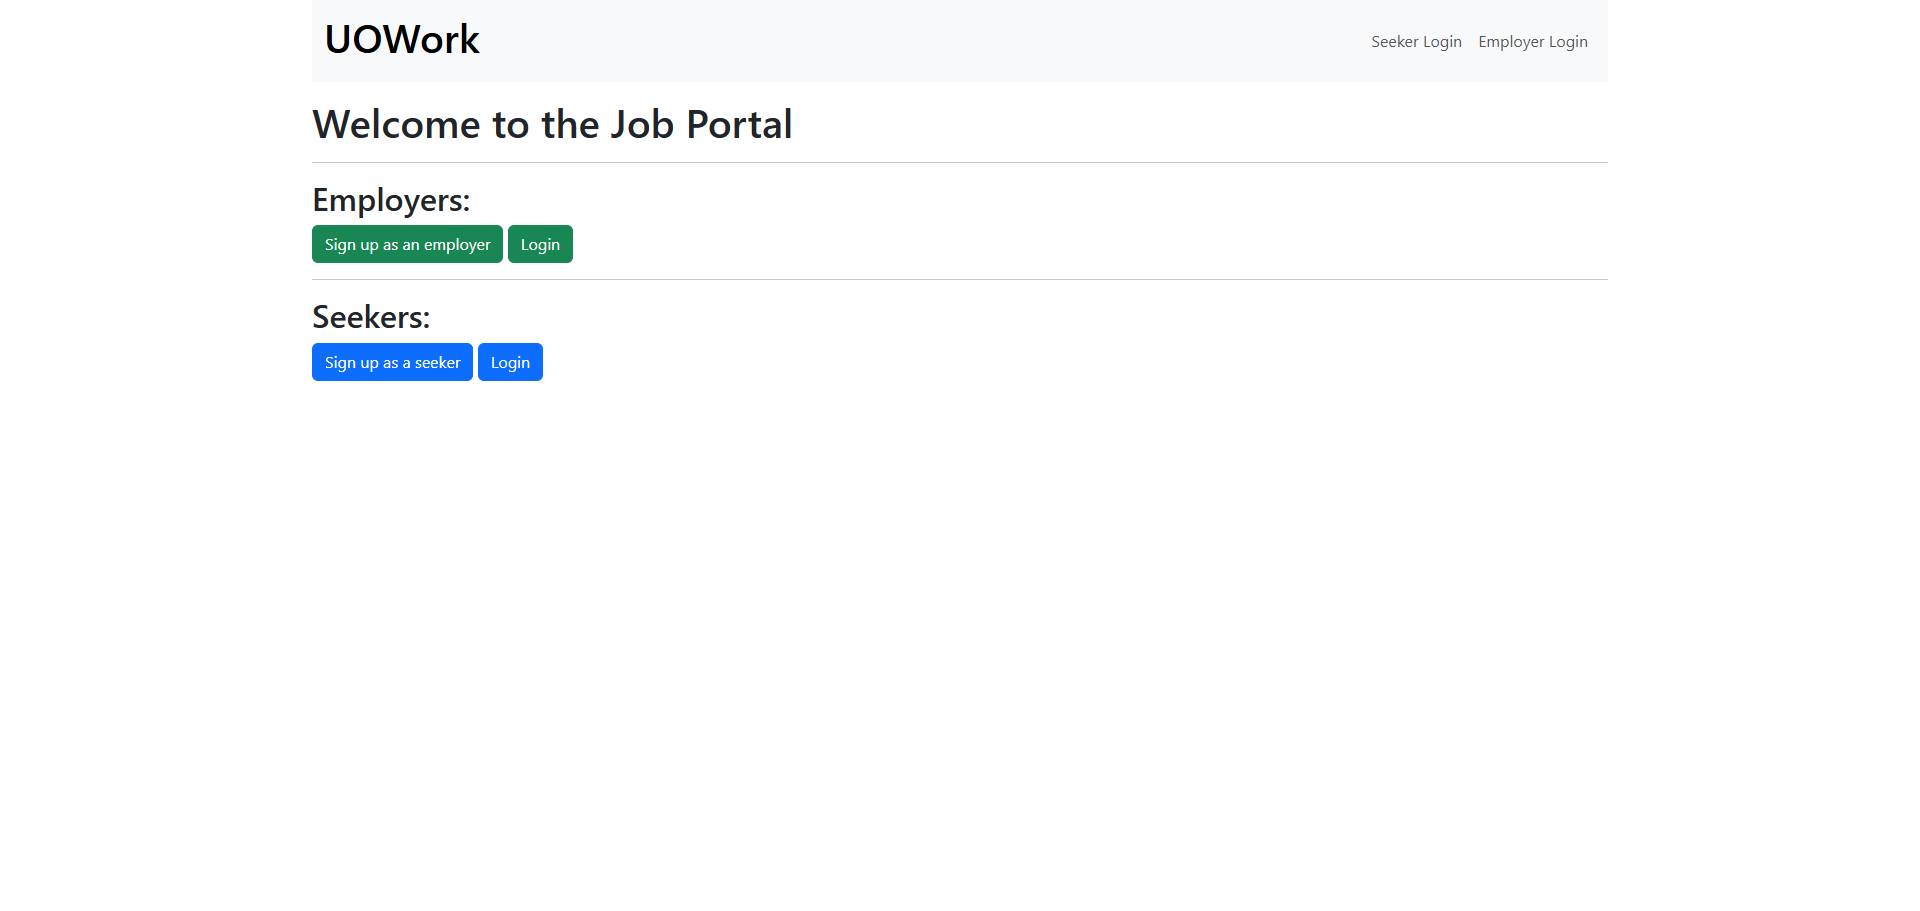
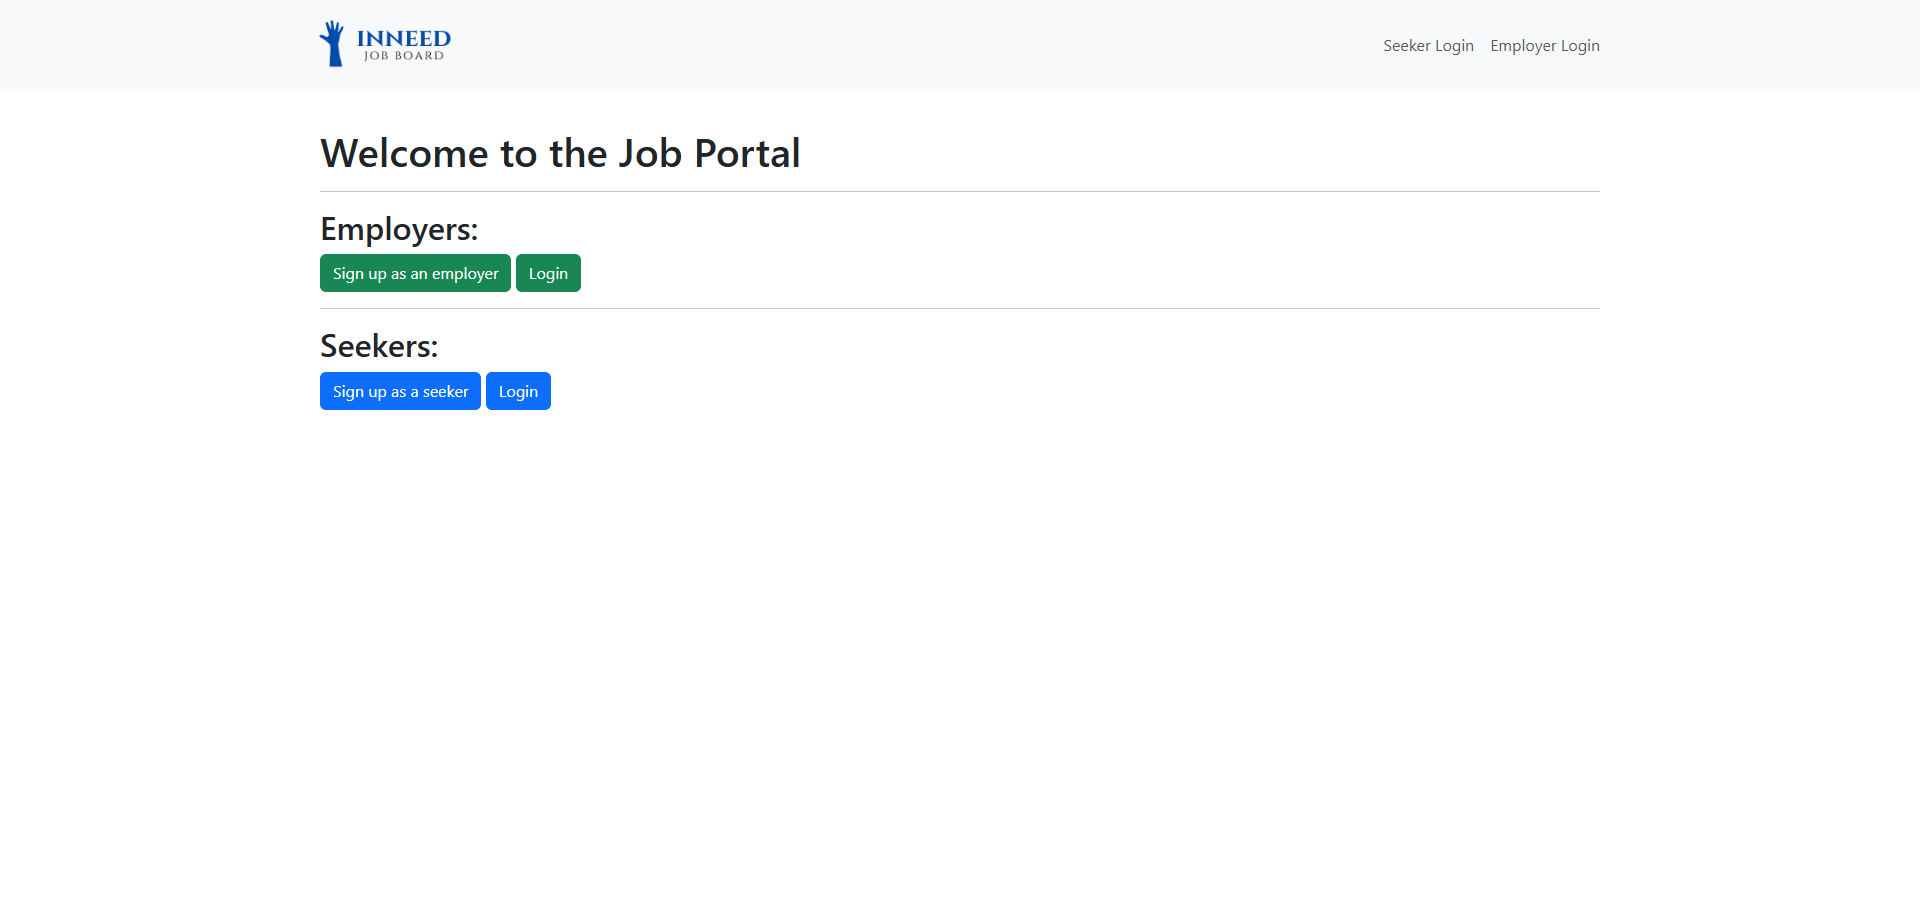
made code cleaner and updated screenshots

diff --git a/templates/index.html b/templates/index.html
@@ -3,25 +3,30 @@
 {%block body%}
     <h1>Welcome to the Job Portal</h1>
     <hr>
-    
-    <h2>Employers:</h2>
 
-    {% if current_user.is_authenticated and current_user.type == 'employer' %}
-        <a href="{{url_for('create_job')}}"><button class="btn btn-success">Create job posting</button></a>
-        <a href="{{url_for('talent_board')}}"><button class="btn btn-success">Talent board</button></a>
-        <a href="{{url_for('logout')}}"><button class="btn btn-danger">Logout</button></a>
+    {% if current_user.is_authenticated%}
+        {% if current_user.is_authenticated and current_user.type == 'employer' %}
+            <h2>Employers:</h2>
+            <a href="{{url_for('create_job')}}"><button class="btn btn-success">Create job posting</button></a>
+            <a href="{{url_for('talent_board')}}"><button class="btn btn-success">Talent board</button></a>
+            <a href="{{url_for('logout')}}"><button class="btn btn-danger">Logout</button></a>
         {% else %}
+            
+        {% endif %}
+
+        {% if current_user.is_authenticated and current_user.type == 'seeker' %}
+            <h2>Seekers:</h2>
+            <a href="{{url_for('job_board')}}"><button class="btn btn-primary">Job Board</button></a>
+            <a href="{{url_for('logout')}}"><button class="btn btn-danger">Logout</button></a>
+            {% else %}
+            
+        {% endif %}
+    {% else %}
+        <h2>Employers:</h2>
         <a href="{{url_for('signup_employer')}}"><button class="btn btn-success">Sign up as an employer</button></a>
         <a href="{{url_for('login_employer')}}"><button class="btn btn-success">Login</button></a>
-    {% endif %}
-    
-    <hr>
-
-    <h2>Seekers:</h2>
-    {% if current_user.is_authenticated and current_user.type == 'seeker' %}
-        <a href="{{url_for('job_board')}}"><button class="btn btn-primary">Job Board</button></a>
-        <a href="{{url_for('logout')}}"><button class="btn btn-danger">Logout</button></a>
-        {% else %}
+        <hr>
+        <h2>Seekers:</h2>
         <a href="{{url_for('signup_seeker')}}"><button class="btn btn-primary">Sign up as a seeker</button></a>
         <a href="{{url_for('login_seeker')}}"><button class="btn btn-primary">Login</button></a>
     {% endif %}

diff --git a/templates/base.html b/templates/base.html
@@ -5,13 +5,13 @@
     <meta name="viewport" content="width=device-width, initial-scale=1.0">
     <meta http-equiv="X-UA-Compatible" content="ie=edge">
     <title>{%block title%}{%endblock%}</title>
-    <link rel="stylesheet" href="https://cdn.jsdelivr.net/npm/bootstrap@5.3.8/dist/css/bootstrap.min.css">
+   
   </head>
-  <body class="container">
+  <body>
     <nav id="book-nav" class="navbar navbar-expand-lg navbar-light bg-light">
       <div class="container">
           <a class="navbar-brand" href="{{url_for('index')}}">
-            <h1>UOWork</h1>
+            <img src="{{ url_for('static', filename='media/inneed-logo.png') }}" alt="Logo" width="150px">
           </a>
           <button class="navbar-toggler" type="button" data-bs-toggle="collapse" data-bs-target="#navbarSupportedContent">
           <span class="navbar-toggler-icon"></span>
@@ -34,20 +34,22 @@
       </div>
     </nav>
 
-    <!-- display flash messages -->
-    {% with messages = get_flashed_messages() %}
-        <div class="container mt-3">
-        {% if messages %}
-            <ul class=flashes>
-                {% for message in messages %}
-                    <li>{{ message }}</li>
-                {% endfor %}
-            </ul>
-        {% endif %}
-        </div>
-    {% endwith %}
+    <div class="container" style="padding:20px">
+        <!-- display flash messages -->
+        {% with messages = get_flashed_messages() %}
+            <div class="container mt-3">
+            {% if messages %}
+                <ul class=flashes>
+                    {% for message in messages %}
+                        <li>{{ message }}</li>
+                    {% endfor %}
+                </ul>
+            {% endif %}
+            </div>
+        {% endwith %}
 
-    {%block body%}{%endblock%}
-    <script src="	https://cdn.jsdelivr.net/npm/bootstrap@5.3.8/dist/js/bootstrap.bundle.min.js"></script>
+        {%block body%}{%endblock%}
+    </div>
+   
   </body>
 </html>

diff --git a/app.py b/app.py
@@ -79,34 +79,26 @@ def signup_seeker():
 
 @app.route('/login-seeker',methods=['GET','POST'])
 def login_seeker():
-    if current_user.is_authenticated and current_user.type == 'employer':
-        flash('Please logout as employer first.')
-        return redirect('/')
-    else:
-        if request.method=='GET':
-            return render_template('login-seeker.html')
-        elif request.method=='POST':
-            email = request.form['email']
-            password = request.form['password']
-            # authenticate user here
-            job_seeker = Seeker.query.filter_by(email=email).first()
-            if job_seeker and bcrypt.check_password_hash(job_seeker.hash, password):
-                login_user(job_seeker)
-                flash('Login successful')
-                session['type'] = 'seeker'
-                return redirect('/job-board/')
-            else:
-                flash('Invalid email or password')
-                return redirect('/login-seeker')
+    if request.method=='GET':
+        return render_template('login-seeker.html')
+    elif request.method=='POST':
+        email = request.form['email']
+        password = request.form['password']
+        # authenticate user here
+        job_seeker = Seeker.query.filter_by(email=email).first()
+        if job_seeker and bcrypt.check_password_hash(job_seeker.hash, password):
+            login_user(job_seeker)
+            flash('Login successful')
+            session['type'] = 'seeker'
+            return redirect('/')
+        else:
+            flash('Invalid email or password')
+            return redirect('/login-seeker')
 
 # job board
 @app.route("/job-board/")
 @login_required
 def job_board():
-    if current_user.type != 'seeker':
-        flash('Only job seekers can view the job board. Please log out first.')
-        return redirect('/')
-
     # REQUIREMENT 1: ALL JOBS WITH KEYWORD SEARCH (JOB DESC) 
     desc_search = request.args.get('desc_search')
     if desc_search:
@@ -166,9 +158,6 @@ def job_board():
 # create employer account
 @app.route("/signup-employer",methods=['GET','POST'])
 def signup_employer():
-    if current_user.is_authenticated and current_user.type == 'seeker':
-        flash('You are logged in as a job seeker. Please log out first.')
-        return redirect('/')
     if request.method=='POST':
         email = request.form['email']
         password = request.form['password']
@@ -190,32 +179,25 @@ def signup_employer():
 
 @app.route('/login-employer',methods=['GET','POST'])
 def login_employer():
-    if current_user.is_authenticated and current_user.type == 'seeker':
-        flash('You are logged in as a job seeker. Please log out.')
-        return redirect('/')
-    else:
-        if request.method=='GET':
-            return render_template('login-employer.html')
-        elif request.method=='POST':
-            email = request.form['email']
-            password = request.form['password']
-            # authenticate user here
-            employer = Employer.query.filter_by(email=email).first()
-            if employer and bcrypt.check_password_hash(employer.hash, password):
-                login_user(employer)
-                flash('Login successful')
-                session['type'] = 'employer'
-                return redirect('/')
-            else:
-                flash('Invalid email or password')
-                return redirect('/login-employer')
+    if request.method=='GET':
+        return render_template('login-employer.html')
+    elif request.method=='POST':
+        email = request.form['email']
+        password = request.form['password']
+        # authenticate user here
+        employer = Employer.query.filter_by(email=email).first()
+        if employer and bcrypt.check_password_hash(employer.hash, password):
+            login_user(employer)
+            flash('Login successful')
+            session['type'] = 'employer'
+            return redirect('/')
+        else:
+            flash('Invalid email or password')
+            return redirect('/login-employer')
 
 @app.route("/create-job/",methods=['GET','POST'])
 @login_required
 def create_job():
-    if current_user.type != 'employer':
-        flash('Only employers can create job postings. Please log out first.')
-        return redirect('/')
     if request.method=='GET':
         jobs = Posting.query.filter_by(created_by=current_user.id).all()
         skills = Skill.query.all()
